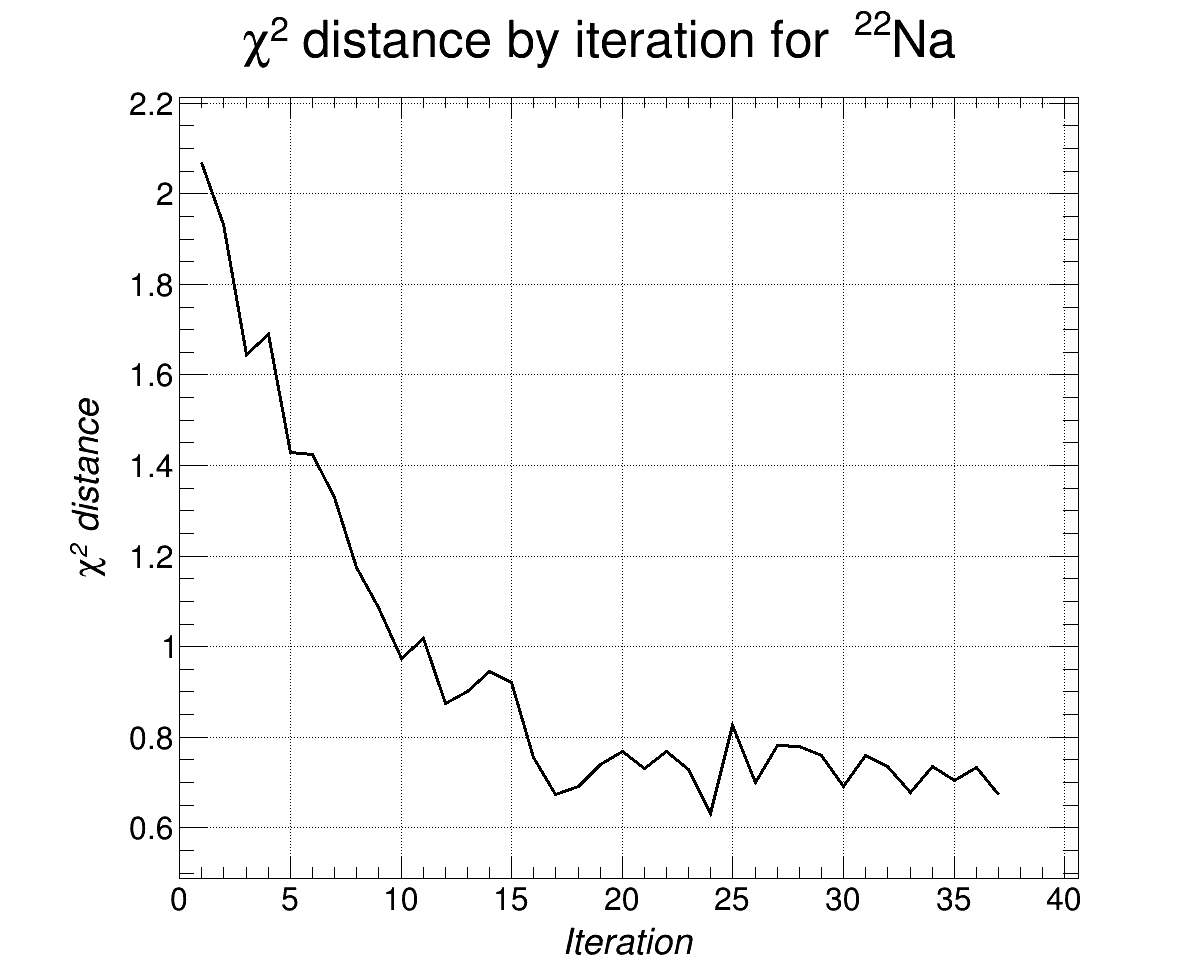
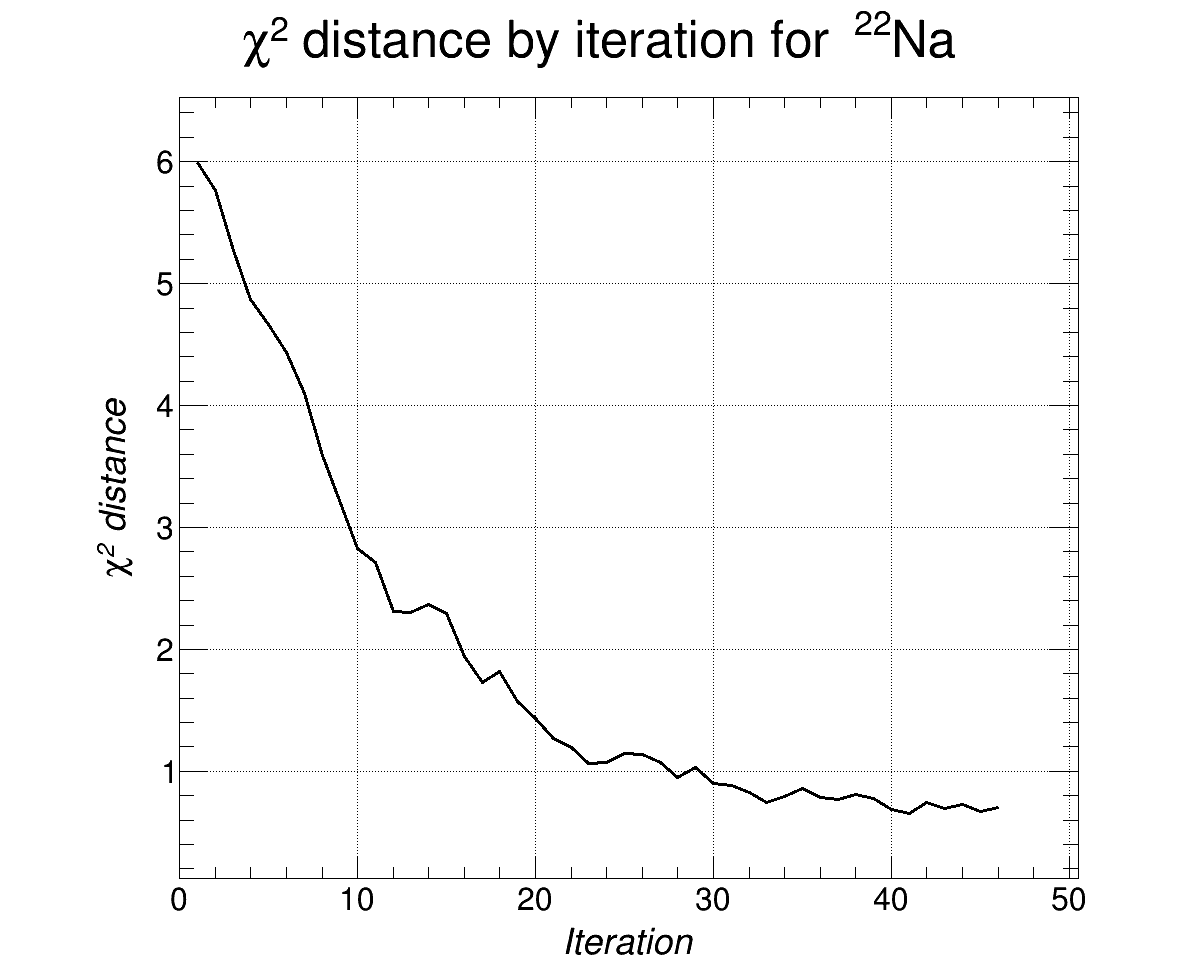
commit Nov 15

diff --git a/important/script_compare3.C b/important/script_compare3.C
@@ -37,8 +37,8 @@ int minRangeNa22 = 400; int maxRangeNa22 = 1500;
 
 //! FFT Threshold FOR INITIAL VALUES (30-1500)
 //? To increase FFT effect, lower the threshold
-int inithreshCs137 = 100.;
-int inithreshNa22 = 100.; 
+int inithreshCs137 = 50.;
+int inithreshNa22 = 50.; 
 
 //! SIMULATION AND MEASUREMENT FILES
 TFile* fsimCs137 = new TFile("../../simfiles/withAl_simCs137_1.root", "read");
